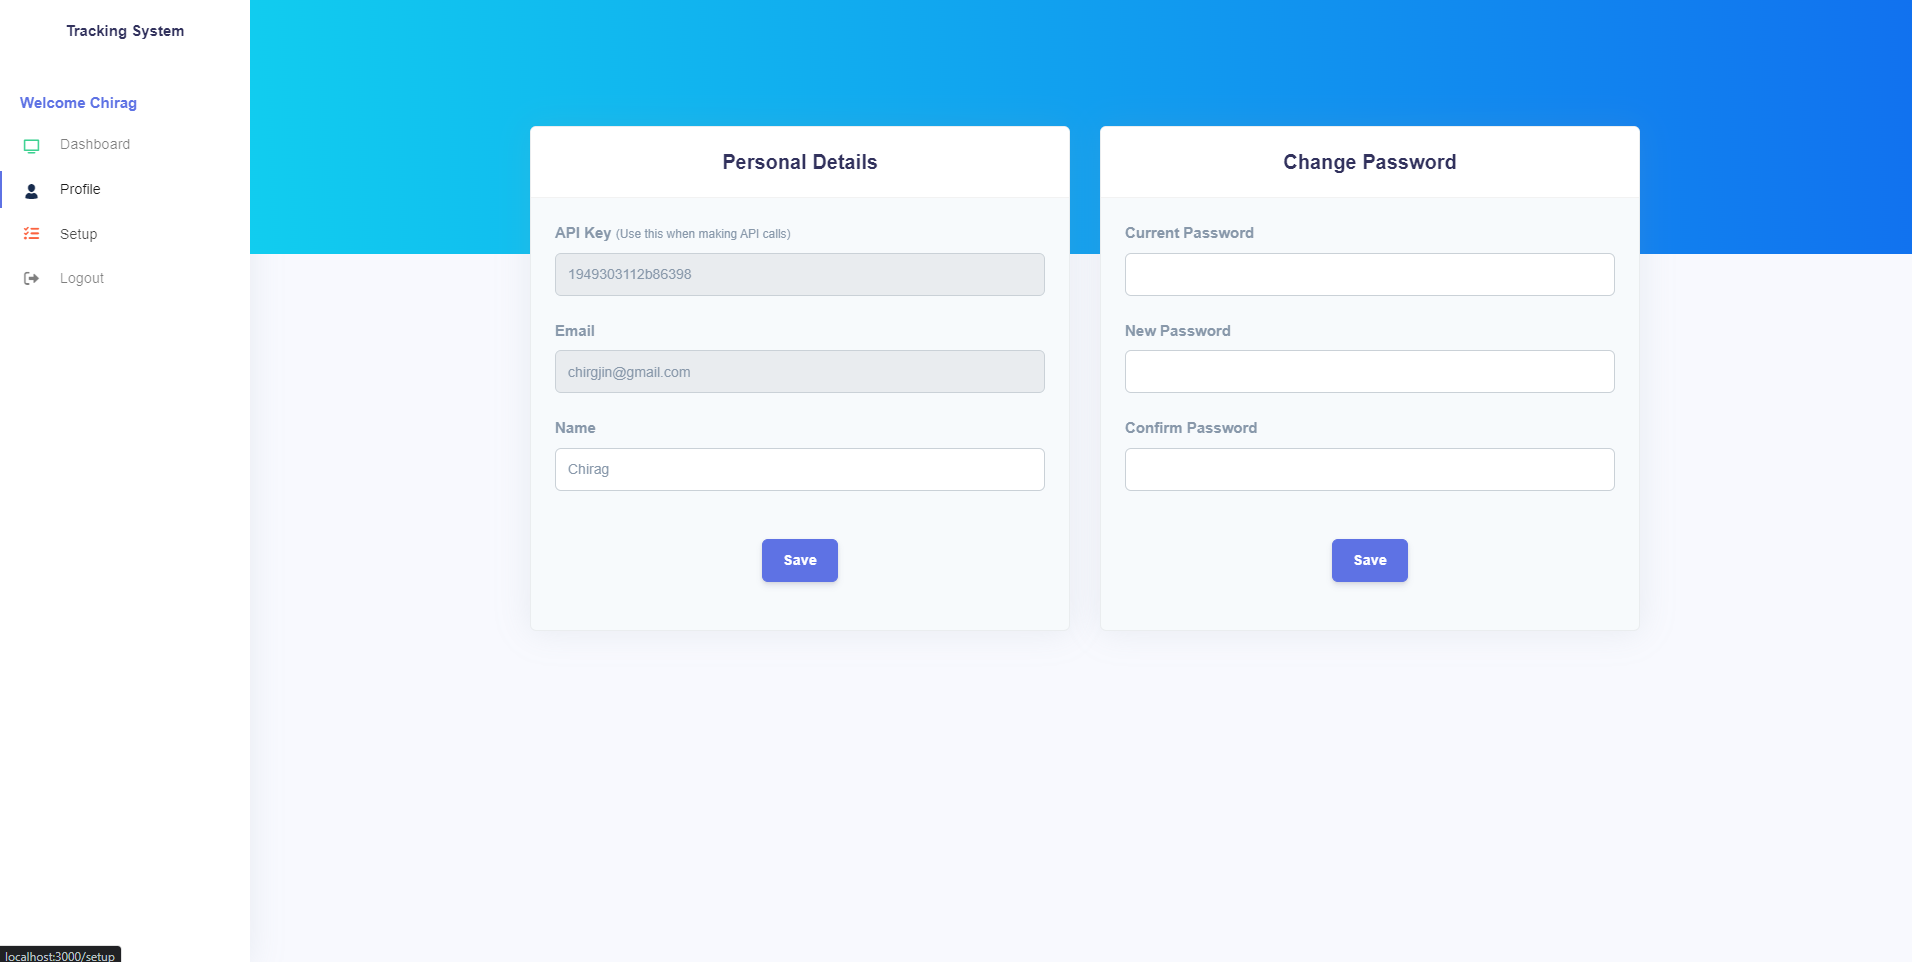
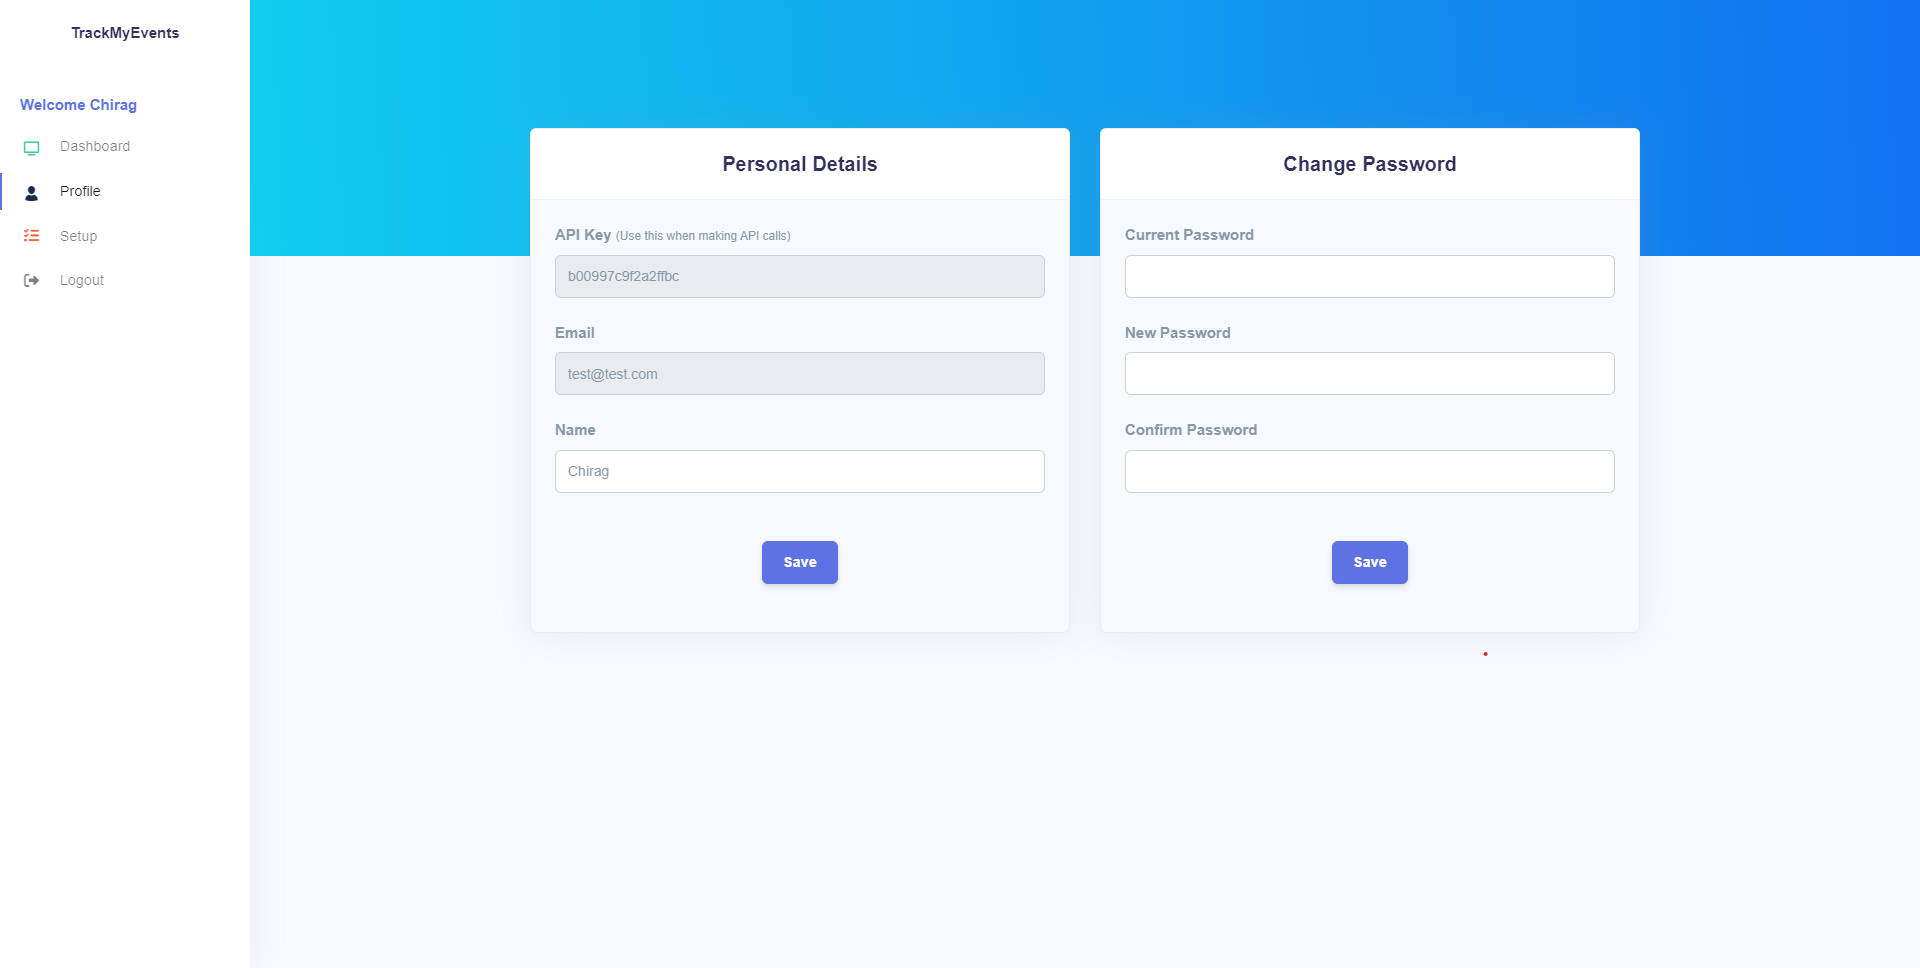
feat: TrackMyEvents

diff --git a/frontend/public/index.html b/frontend/public/index.html
@@ -5,12 +5,12 @@
     <link rel="icon" href="%PUBLIC_URL%/favicon.ico" />
     <meta name="viewport" content="width=device-width, initial-scale=1" />
     <meta name="theme-color" content="#000000" />
-    <meta name="title" content="Tracking System" />
+    <meta name="title" content="TrackMyEvents" />
     <meta name="description" content="Track activity on your application!" />
     <link rel="apple-touch-icon" href="%PUBLIC_URL%/logo192.png" />
     <meta property="og:type" content="website" />
     <meta property="og:url" content="https://tracking-system-eta.vercel.app/" />
-    <meta property="og:title" content="Tracking System" />
+    <meta property="og:title" content="TrackMyEvents" />
     <meta
       property="og:description"
       content="Track activity on your application!"
@@ -18,12 +18,12 @@
 
     <meta property="twitter:card" content="summary_large_image" />
     <meta property="twitter:url" content="https://tracking-system-eta.vercel.app/" />
-    <meta property="twitter:title" content="Tracking System" />
+    <meta property="twitter:title" content="TrackMyEvents" />
     <meta
       property="twitter:description"
       content="Track activity on your application!"
     />
-    <title>Tracking System</title>
+    <title>TrackMyEvents</title>
     <script
       src="https://kit.fontawesome.com/49af106417.js"
       crossorigin="anonymous"

diff --git a/frontend/src/components/Sidebar.tsx b/frontend/src/components/Sidebar.tsx
@@ -38,7 +38,7 @@ export function SideBar() {
           to={routes.dashboard.children.overview.fullPath}
           tag={Link}
         >
-          <span className="h4">Tracking System</span>
+          <span className="h4">TrackMyEvents</span>
         </NavbarBrand>
 
         <Collapse navbar isOpen={collapseOpen}>
@@ -49,7 +49,7 @@ export function SideBar() {
                   to={routes.dashboard.children.overview.fullPath}
                   className="h4"
                 >
-                  Tracking System
+                  TrackMyEvents
                 </Link>
               </Col>
               <Col className="collapse-close" xs="6">

diff --git a/frontend/src/layouts/UnAuthenticated.tsx b/frontend/src/layouts/UnAuthenticated.tsx
@@ -19,8 +19,8 @@ export default function UnAuthenticatedLayout() {
                 <Col lg="5" md="6">
                   <h1 className="text-white">Welcome!</h1>
                   <p className="text-secondary">
-                    Tracking service is a free to use tracking system to help
-                    track the actions your users perform on your website or
+                    TrackMyEvents is a free to use tracking system to help track
+                    the actions your users perform on your website or
                     application!
                   </p>
                 </Col>

diff --git a/services/user-service/src/config/index.ts b/services/user-service/src/config/index.ts
@@ -8,8 +8,8 @@ const validateEnv = cleanEnv(process.env, {
   NODE_ENV: str(),
   PORT: port(),
 
-  DATABSE_URL: str(),
+  DATABASE_URL: str(),
 })
 
-export const { NODE_ENV, PORT, DATABSE_URL } = validateEnv
+export const { NODE_ENV, PORT, DATABASE_URL } = validateEnv
 export const APP_ROOT = resolve(__dirname, '..')

diff --git a/README.md b/README.md
@@ -1,30 +1,24 @@
-# Tracking System
+# Track My Events
 
-An event tracking system built on microservices architecture using Redis Stack as the primary database & communication mechanism (pub/sub) for backend & React for frontend.
+An event tracking system built on microservices architecture using PostgreSQL as the primary database along with Prisma ORM & Pub/Sub using Redis for backend & React for frontend.
 
 #### Dashboard
 
-![Dashboard](https://github.com/chirgjin/tracking-system/raw/main/documentation/images/Dashboard.png)
+![Dashboard](https://github.com/chirgjin/track-my-events/raw/main/documentation/images/Dashboard.png)
 
 #### SDK Setup
 
-![Setup Page](https://github.com/chirgjin/tracking-system/raw/main/documentation/images/Setup.png)
+![Setup Page](https://github.com/chirgjin/track-my-events/raw/main/documentation/images/Setup.png)
 
 #### Architecture
 
-![Setup Page](https://github.com/chirgjin/tracking-system/raw/main/documentation/images/Architecture.png)
-
-# Overview video
-
-Here's a short video that explains the project and how it uses Redis:
-
-[![Overview Video](https://github.com/chirgjin/tracking-system/raw/main/documentation/images/Overview.png)](https://www.youtube.com/watch?v=-Na1VFiwVDs)
+![Setup Page](https://github.com/chirgjin/track-my-events/raw/main/documentation/images/Architecture.png)
 
 ## How it works
 
 ### Services
 
-There are 3 services in tracking system:
+There are 3 services in TrackMyEvents:
 
 #### 1. Gateway
 
@@ -39,35 +33,42 @@ This service is responsible for storing & authenticating users.
 
 1. User
 
-```ts
-class User extends Entity {
-  public name: string
-  public email: string
-  public password: string
-  public apiKey: string
-  public createdAt: Date
-  public updatedAt: Date | null
+```prisma
+model User {
+  id           String         @id @default(uuid()) @db.Uuid()
+  name         String         @db.VarChar(256)
+  email        String         @unique @db.VarChar(256)
+  password     String         @db.VarChar(256)
+  apiKey       String         @db.VarChar(16)
+  createdAt    DateTime       @default(now())
+  updatedAt    DateTime?
+  AccessToken  AccessToken[]
+  RefreshToken RefreshToken[]
 }
 ```
 
 2. Access Token
 
-```ts
-class AccessToken extends Entity {
-  public userId: string
-  public token: string
-  public expiresOn: Date
-  public createdAt: Date
+```prisma
+model AccessToken {
+  id        Int      @id @default(autoincrement())
+  token     String   @unique @db.VarChar(24)
+  userId    String   @db.Uuid()
+  user      User     @relation(fields: [userId], references: [id], onDelete: Cascade, onUpdate: NoAction)
+  expiresOn DateTime
+  createdAt DateTime @default(now())
 }
 ```
 
 3. Refresh Token
 
-```ts
-class AccessToken extends Entity {
-  public userId: string
-  public token: string
-  public createdAt: Date
+```prisma
+model RefreshToken {
+  id        Int      @id @default(autoincrement())
+  token     String   @unique @db.VarChar(24)
+  userId    String   @db.Uuid()
+  user      User     @relation(fields: [userId], references: [id], onDelete: Cascade, onUpdate: NoAction)
+  createdAt DateTime @default(now())
 }
 ```
 
@@ -79,27 +80,28 @@ This service is responsible for storing event data & then inferring analytics fr
 
 1. Event
 
-```ts
-class Event extends Entity {
-  public internalUserId: string // id of our internal user to which this event is linked to
+```prisma
+model Event {
+  id             Int    @id @default(autoincrement())
+  internalUserId String @db.Uuid()  // id of our internal user to which this event is linked to
 
-  public sessionId: string
-  public eventTime: Date
-  public eventName: string
-  public page: string
-  public referrer: string | null
-  public _context: string // redisJSON doesn't support objects, so we store context in string form
-  public userId: string // id of user where the tracking is being done. If user doesnt exist then a temp id is generated
-  public userAgent: string | null
-  public createdAt: Date
+  sessionId String   @db.VarChar(256)
+  eventTime DateTime
+  eventName String   @db.VarChar(256)
+  page      String   @db.VarChar(512)
+  referrer  String?  @db.VarChar(512)
+  context   Json
+  userId    String?  @db.VarChar(256) // id of user where the tracking is being done. If user doesnt exist then a temp id is generated
+  userAgent String?  @db.VarChar(256)
+  createdAt DateTime @default(now())
 }
 ```
 
 ### Registration / Login
 
-![Register Page](https://github.com/chirgjin/tracking-system/raw/main/documentation/images/Register.png)
+![Register Page](https://github.com/chirgjin/track-my-events/raw/main/documentation/images/Register.png)
 
-- The user data is stored as JSON where each user entry contains the values:
+- The user data is stored in `User` table where each user row contains the values:
 
   - `name`: full name of the user
   - `email`: unique email of the user
@@ -108,26 +110,10 @@ class Event extends Entity {
   - `createdAt`: Date time when user was created
   - `updatedAt`: Date time when user updated their data. This is null if user never updated their data
 
-- User data is accessed by key `User:{userId}`. The data for it is stored with `JSON.SET key path value`. User id is auto generated by the redis-om library.
-
-- The authentication data is stored in various keys & data types.
+- The authentication data is stored using `AccessToken` & `RefreshToken` tables
 
   Every time a user logs in or registers, a pair of access token & refresh token is created. This access token is used to authenticate the user for any subsequent API requests. The generated access token
   expires after 1 hour after which refresh token can be used to generate a new pair of access & refresh token. The refresh tokens never expire so that users don't have to re-login.
-
-  - Access token data is stored as JSON where each entry contains the values:
-
-    - `userId`: entity id of the to which this access token belongs to
-    - `token`: unique token for this access token. This is an auto generated random string
-    - `expiresOn`: Date on which this access token expires.
-    - `createdAt`: Date on which this access token was created.
-      Access token data is accessed by key `AccessToken:{accessTokenId}`. The data for it is stored with `JSON.SET key path value`. Access token id is auto generated by the redis-om library.
-
-  - Refresh token data is stored as JSON where each entry contains the values:
-    - `userId`: entity id of the user to which this refresh token belongs to
-    - `token`: unique token for this refresh token. This is an auto generated random string
-    - `createdAt`: Date on which this refresh token was created.
-      Refresh token data is accessed by key `RefreshToken:{accessTokenId}`. The data for it is stored with `JSON.SET key path value`. Refresh token id is auto generated by the redis-om library.
 
 ### Authentication
 
@@ -136,12 +122,11 @@ class Event extends Entity {
 
 ### Profile Page
 
-![Profile Page](https://github.com/chirgjin/tracking-system/raw/main/documentation/images/Profile.png)
+![Profile Page](https://github.com/chirgjin/track-my-events/raw/main/documentation/images/Profile.png)
 
-- The user data is already stored in the `User:{userId}` JSON key.
+- The user data is already stored in the user table.
 - The user can update either their `name` or `password`
   - If user wants to update their password then we verify the existing hash with the provided `current password`
-- The updates are made using `JSON.SET key path value`
 
 ### Events
 
@@ -165,29 +150,8 @@ How the data is stored:
 
 - When consuming data from pub/sub subscription, the API key is first verified with the user service.
 
-  - If a valid user exists with the given API key then the event data is stored in a hash set with key `Event:{eventId}`.
+  - If a valid user exists with the given API key then the event data is stored in the Event table.
   - Otherwise this event is logged & ignored.
-
-- Generating analytics from event data is done using RedisSearch module.
-
-  - All the event data is filtered by the logged-in user's id
-  - Events recorded over a month or day are calculated using `FT.SEARCH` command by filtering on `eventTime` value and then counting the rows. For this purpose, `@redis/search` module is used directly.
-  - For more complex data points like activeUsers over a period of time or count of events over this lifetime is done using `FT.AGGREGATE` command directly.
-  - For example, when calculating daily active users for last 30 days: - Filter the results by `internalUserId` & `eventTime` using the `query` argument of `FT.AGGREGATE` - Apply transformation to convert the `eventTime` to `day` in DD-MM-YYYY format using `timefmt` function. - Group the whole dataset by `day` - Get distinct count for every user.
-
-    Final Query:
-
-    ```
-    FT.AGGREGATE "Event:index" "(
-      (@internalUserId:{01GB16BRM2Y6P4S5SP7QMMWZFD})
-      (@eventTime:[1658687400 +inf])
-      (@eventTime:[-inf (1661279400])
-    )"
-    APPLY "timefmt(@eventTime, '%-d-%-m-%Y')" AS day
-    GROUPBY 1 @day
-      REDUCE COUNT_DISTINCT 1 @sessionId as sessions
-      REDUCE COUNT_DISTINCT 1 @userId as users
-    ```
 
 ## How to run it locally?
 
@@ -195,19 +159,15 @@ How the data is stored:
 
 - Node - v16.15.0
 - Yarn - v1.22.18
-- Redis Stack Server
+- Redis Server
+- PostgreSQL Server
 
 ### Local installation
-
-- Install the dependencies
-
-```bash
-yarn install
-```
 
 - Go to `services/user-service` (`cd ./services/user-service`) and then:
 
 ```bash
+yarn install
 # copy file and set proper data inside
 cp .env.example .env
 
@@ -217,6 +177,7 @@ yarn dev
 - Go to `services/tracking-service` (`cd ./services/tracking-service`) and then:
 
 ```bash
+yarn install
 # copy file and set proper data inside
 cp .env.example .env
 
@@ -228,6 +189,7 @@ yarn ts:subscriber
 - Go to `services/gateway` (`cd ./services/gateway`) and then:
 
 ```bash
+yarn install
 # copy file and set proper data inside
 cp .env.example .env
 
@@ -237,6 +199,7 @@ yarn dev
 - Go to `frontend` (`cd ./frontend`) and then:
 
 ```bash
+yarn install
 # copy file and set proper data inside
 cp .env.example .env
 
